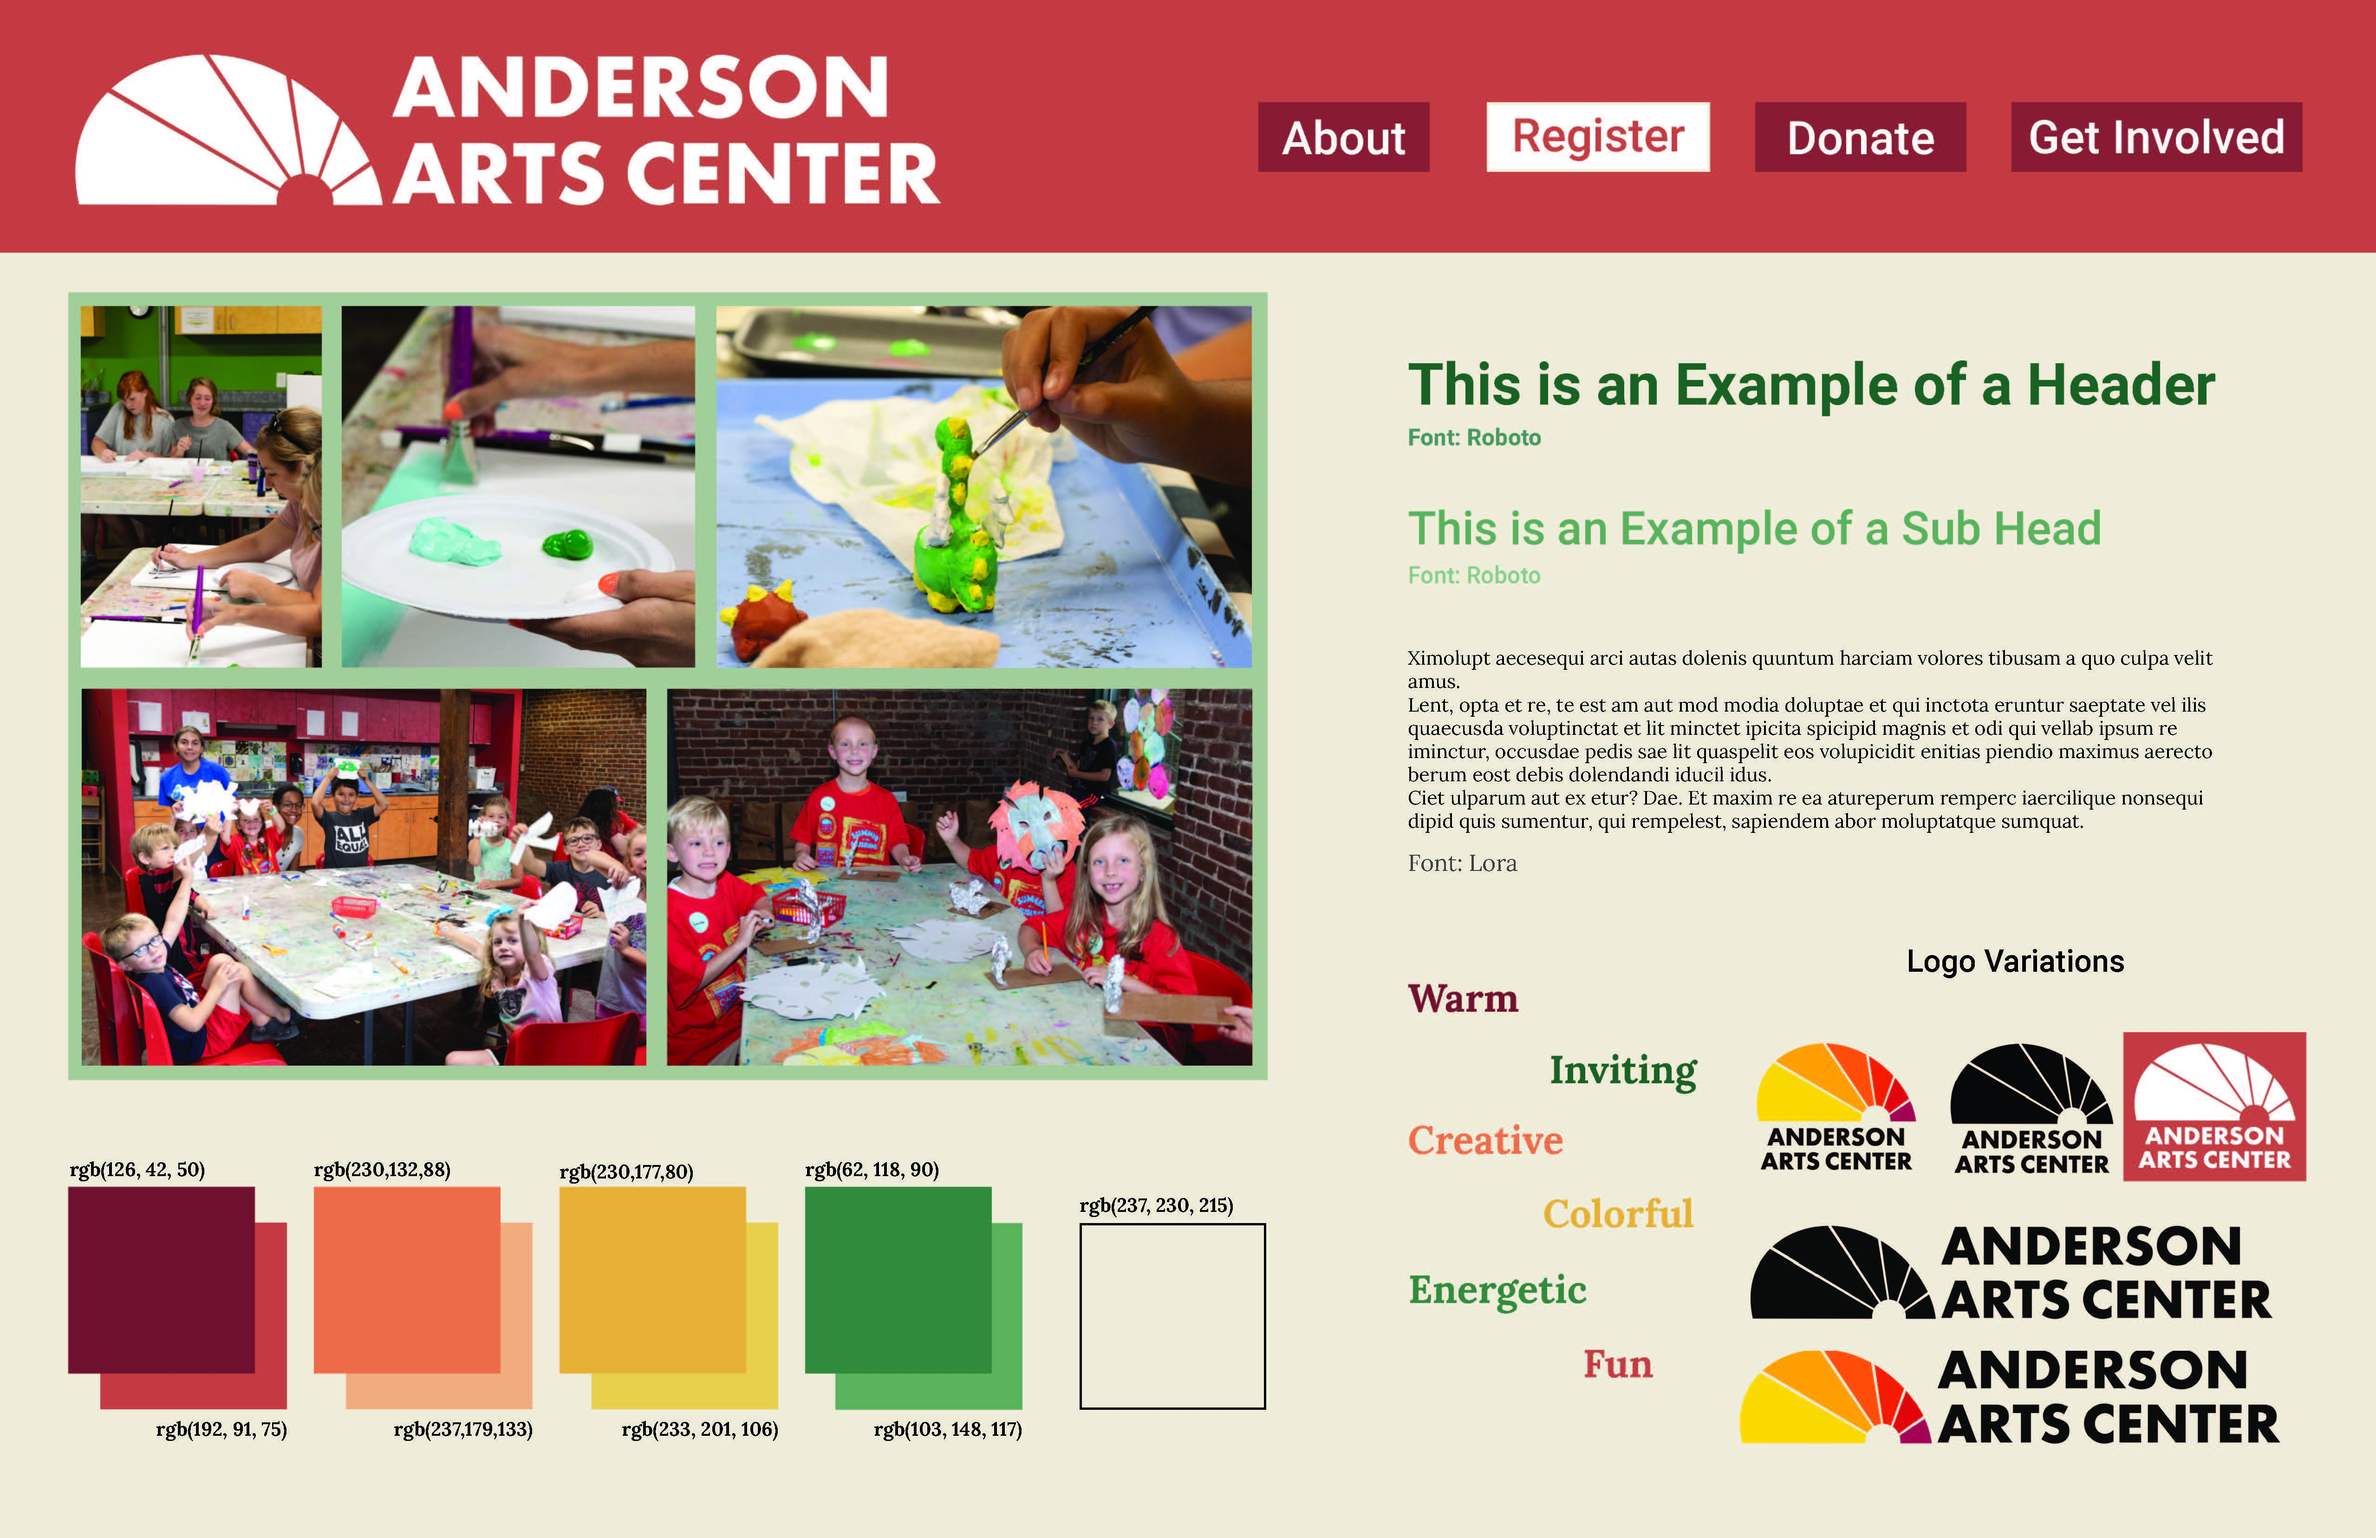
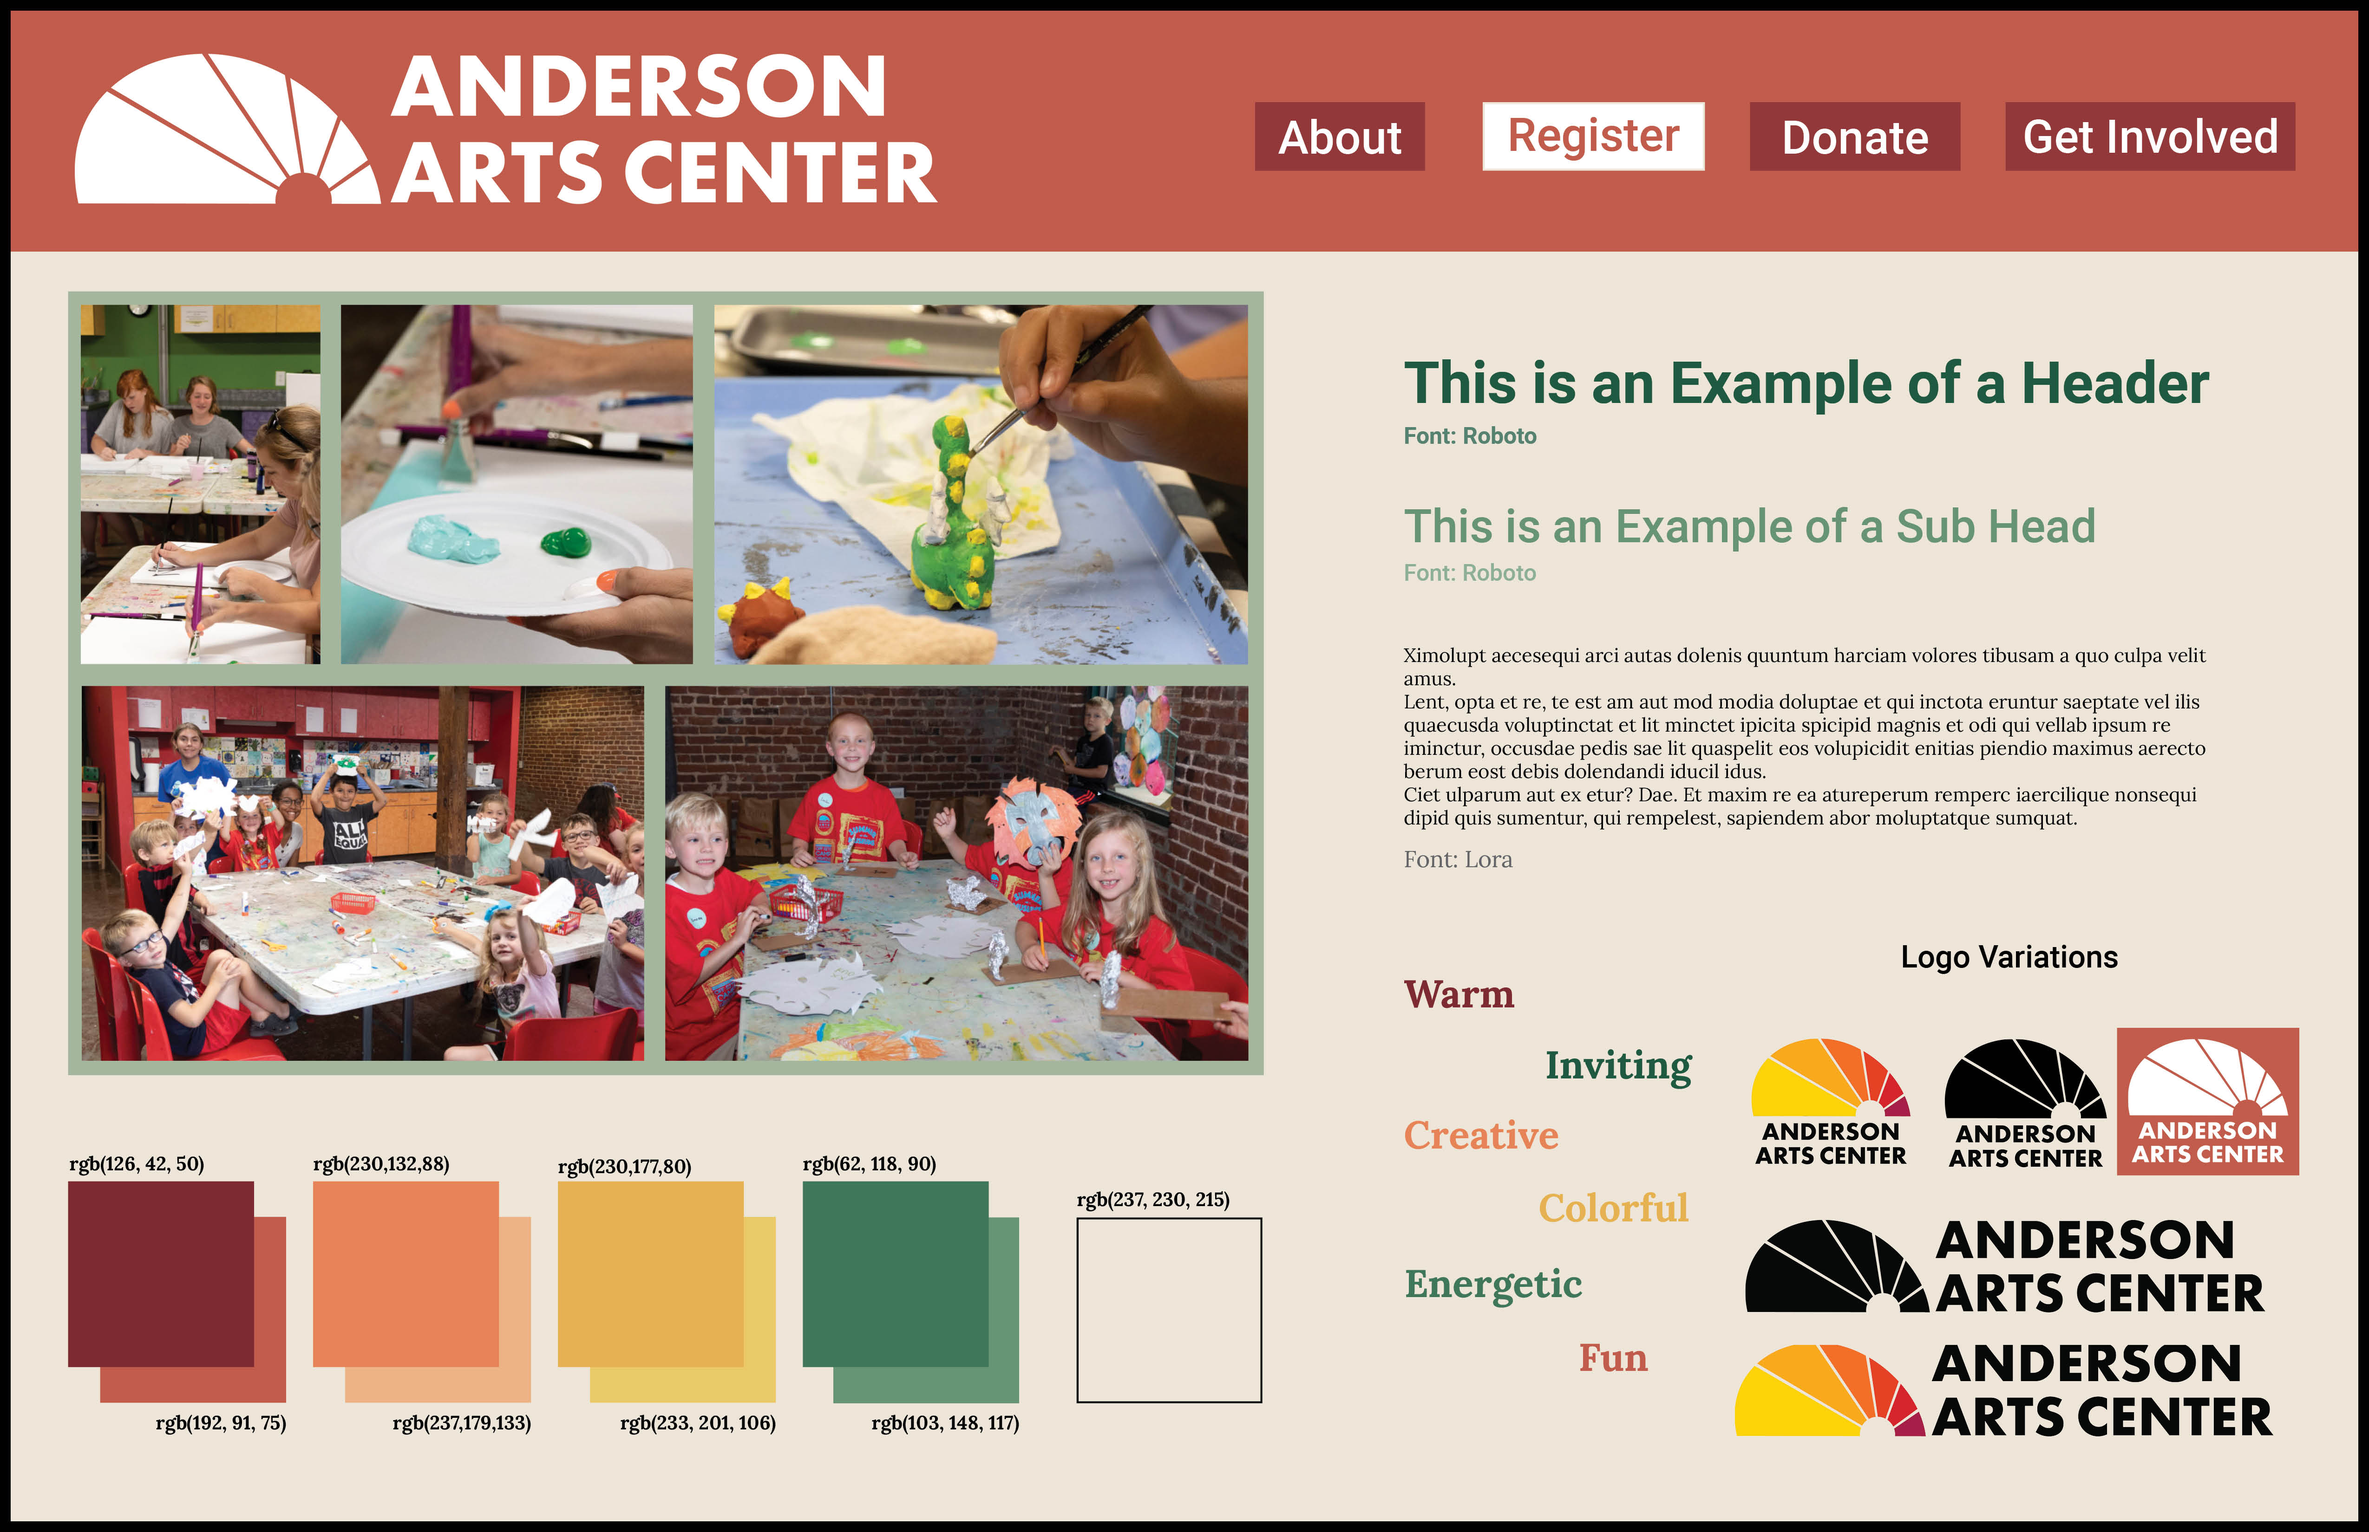
Home page color and SS border
Alternating blocks on home page changed from white to cream. Border added to style sheet on solution page.

diff --git a/solution.html b/solution.html
@@ -39,7 +39,7 @@
 					</header>
 					<!--Style Tile-->
 					<h2>Style Tile</h2>
-					  <div><span class="image fit"><img src="images/stylesheet.jpg" alt="stylesheet" /></span></div>
+					  <div><span class="image fit" ><img src="images/stylesheet.jpg" alt="stylesheet" /></span></div>
 					  <h3>The Heading</h3>
 						<p>At the top, I created what a possible navigation bar might look like. I used color to emphasize the importance of the register button. It is frequently visited by users and is the CTA (Call to Action) button. The buttons along the top are also important to the user but are only a few of the buttons that will be featured on the final site. They are there to give an idea of what the heading will look like and what categories will be present.</p>
 					  <h3>Aesthetics</h3>

diff --git a/assets/css/main.css b/assets/css/main.css
@@ -3633,7 +3633,7 @@ take precedence the ones in this file. */
 			order: 1;
 			width: 50%;
 			display: block;
-			background: #FFF;
+			background: #EDE6D7;
 			padding: 8em;
 			text-align: right;
 			position: relative;
